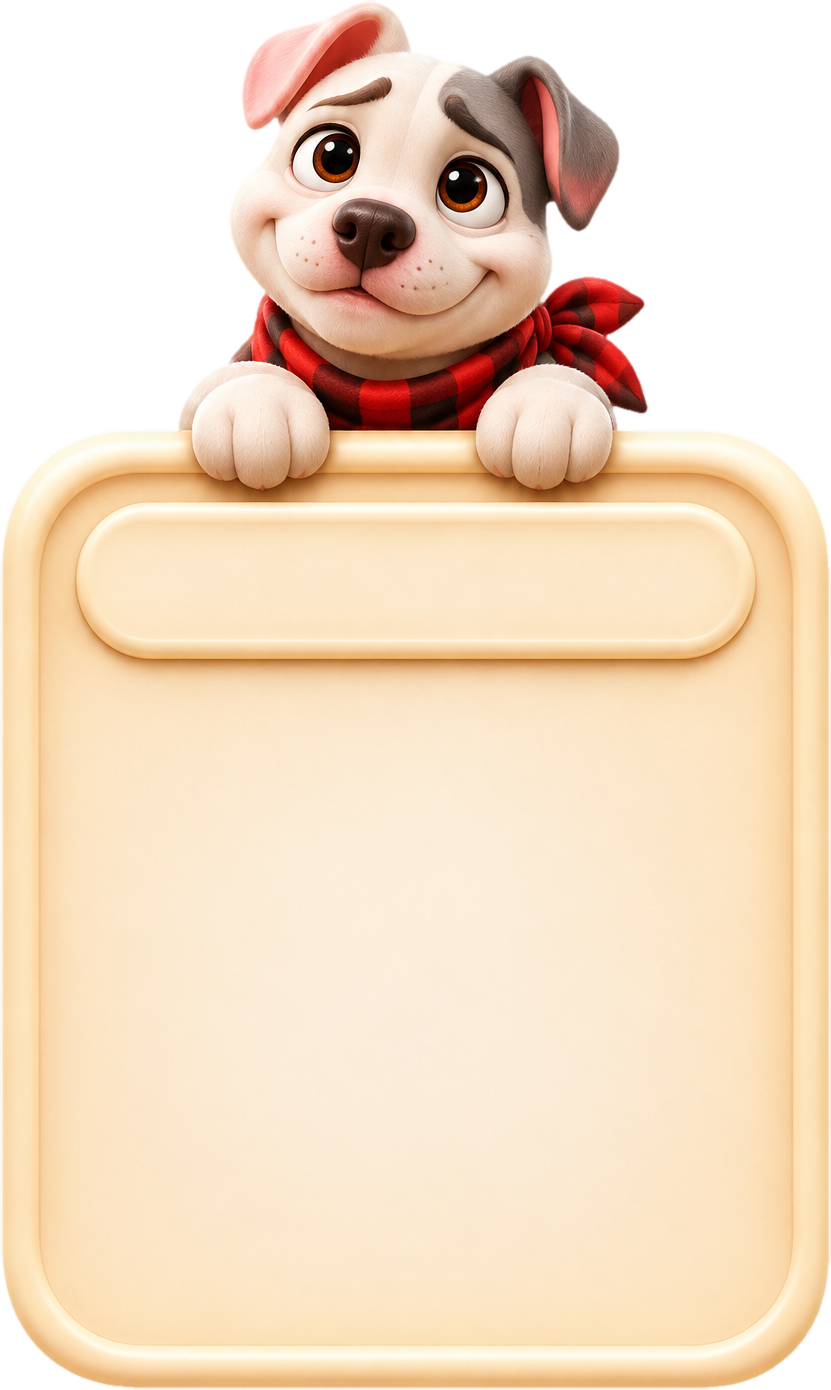
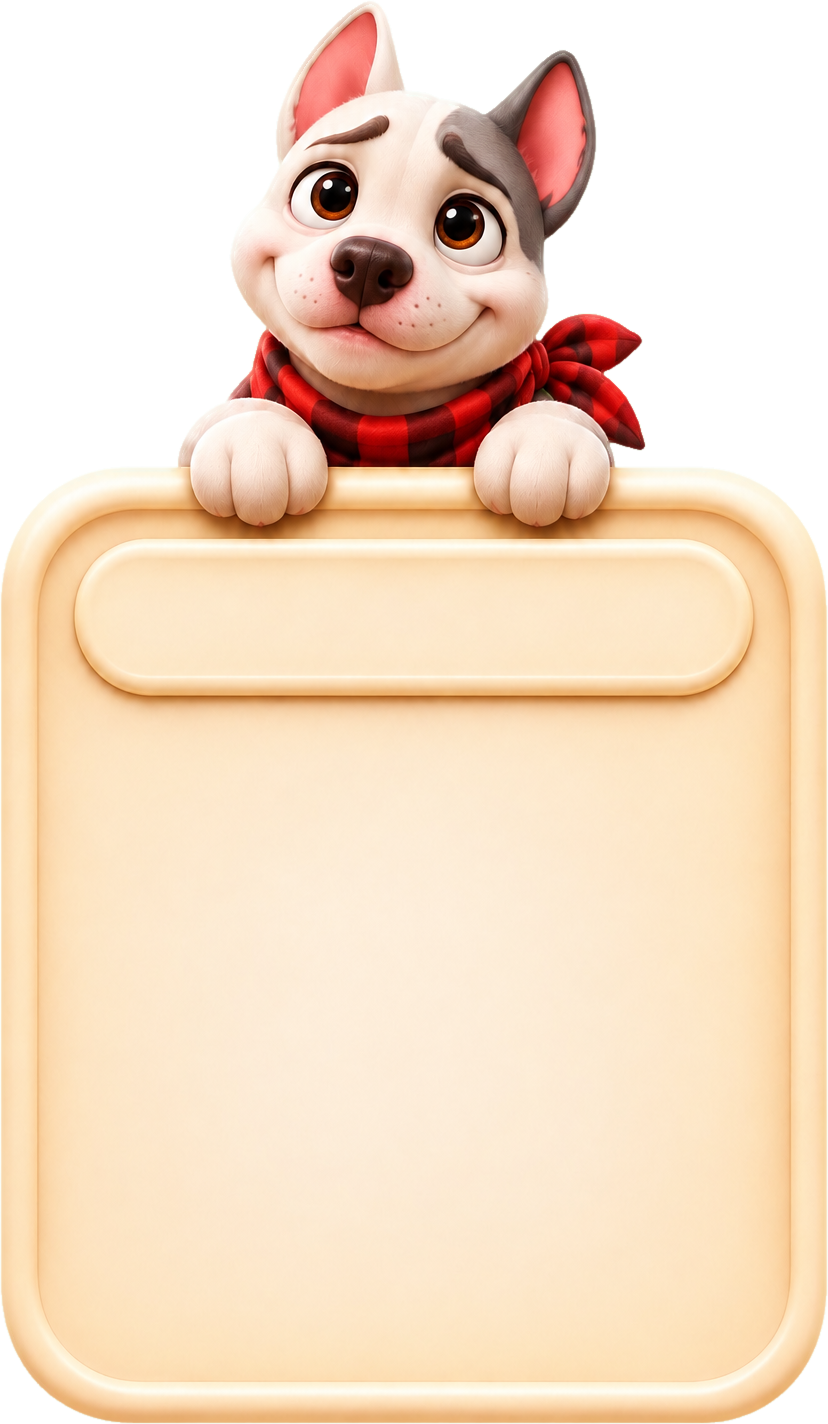
Out of Moves card: Rambo's ears upright
Claude-Session: https://claude.ai/code/session_01HqXo8oXM9XTGkWGnUkjv9K

diff --git a/game_new.html b/game_new.html
@@ -736,7 +736,7 @@ $('pz').onclick=()=>{if(!S)return;showOv(`<img class="ttl2" src="a/L_t_paused.we
 window.T={get S(){return S},findMove,localMatch,trySwap,startLevel,LEVELS,setFast:v=>FAST=v,tapCell};
 document.body.dataset.bt=Q.get('bt')||'cream70';document.getElementById('topw').style.transform=`translate(10px,${Q.get('hu')??14}px) scale(.9)`;if(Q.get('dof'))document.body.dataset.dof=Q.get('dof');if(Q.get('calm'))document.body.dataset.calm=Q.get('calm');document.body.dataset.hud=Q.get('hud')||'smoke';
 addEventListener("load",()=>startLevel(Math.max(0,(+Q.get("lv")||1)-1)));
-</script><script src="game_fx.js?v=23"></script><script src="rambo_live.js?v=23"></script><script src="game2_new.js?v=12"></script><script src="uikit/kit.js?v=2"></script><script src="pop_kit.js?v=5"></script><script src="polish.js?v=4"></script><script src="frameless.js?v=14"></script><script>(function(){const _sl=window.startLevel,lv0=+(new URLSearchParams(location.search).get('lv')||1);window.startLevel=function(n,o){if(Math.floor(n/10)!==Math.floor((lv0-1)/10))return location.replace('game_new.html?lv='+(n+1));return _sl(n,o)}})();
+</script><script src="game_fx.js?v=23"></script><script src="rambo_live.js?v=23"></script><script src="game2_new.js?v=12"></script><script src="uikit/kit.js?v=2"></script><script src="pop_kit.js?v=6"></script><script src="polish.js?v=4"></script><script src="frameless.js?v=14"></script><script>(function(){const _sl=window.startLevel,lv0=+(new URLSearchParams(location.search).get('lv')||1);window.startLevel=function(n,o){if(Math.floor(n/10)!==Math.floor((lv0-1)/10))return location.replace('game_new.html?lv='+(n+1));return _sl(n,o)}})();
 (function(){
 // ===== Which background each chapter uses (easy to swap) =====
 // s01 Teal woodland · s02 Blue backyard · s03 Rooftops · s04 Streetlamps · s05 Mountains · s06 Rolling hills

diff --git a/pop_kit.js b/pop_kit.js
@@ -108,8 +108,8 @@ function close(now){timers.forEach(clearTimeout);timers=[];cancelAnimationFrame(
  card.style.animation='gpDrop .22s ease-in both';gp.classList.remove('on');const c=card;setTimeout(()=>{if(card===c){gp.innerHTML='';st=card=fx=null}},240)}
 window.gpClose=close;
 // ChatGPT art cards: [file, width, height, inner box top, inner box bottom] in the card's own pixels
-const ART={ready:['ready',823,1460,700,1395,544,686],lose:['lose',831,1390,670,1325,500,664],pause:['pause',790,1345,535,1275,380,512],win:['win_base',780,1337,800,1290,0,0]};
-const panel=k=>{const A=ART[k],p=h('div','gart '+k,card);p.style.aspectRatio=A[1]+'/'+A[2];const bg=pimg('','gbg',p);bg.src='bovo11/pop2/'+A[0]+'.webp?v=1';
+const ART={ready:['ready',823,1460,700,1395,544,686],lose:['lose',828,1424,705,1360,540,696],pause:['pause',790,1345,535,1275,380,512],win:['win_base',780,1337,800,1290,0,0]};
+const panel=k=>{const A=ART[k],p=h('div','gart '+k,card);p.style.aspectRatio=A[1]+'/'+A[2];const bg=pimg('','gbg',p);bg.src='bovo11/pop2/'+A[0]+'.webp?v=2';
  p.style.setProperty('--sx',100/A[1]+'%');p.style.setProperty('--sy',100/A[2]+'%');
  const pl=h('div','gplt',p);pl.style.top=A[5]/A[2]*100+'%';pl.style.height=(A[6]-A[5])/A[2]*100+'%';
  const c=h('div','gpin',p);c.style.top=A[3]/A[2]*100+'%';c.style.bottom=(A[2]-A[4])/A[2]*100+'%';c.plate=pl;c.art=p;return c};
